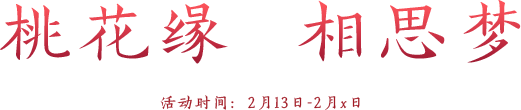
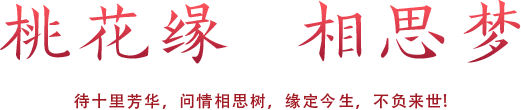
add
add

Changed region(s): [[0.1228, 0.8455, 0.8599, 1.0]]

diff --git a/evt202002/index.html b/evt202002/index.html
@@ -4,7 +4,9 @@
     <meta charset="UTF-8">
     <meta name="viewport" content="width=device-width, initial-scale=1.0">
     <meta http-equiv="X-UA-Compatible" content="ie=edge">
-    <title>情人节</title>
+    <title>【桃之夭夭，灼灼其华、2020情人节专属换装】-《梦三国2》官方网站</title>
+    <meta name="Keywords" content="梦三国,梦三国2,梦三国官网,梦三国下载,梦三国游戏下载,msg,梦三国新手,梦三国礼包,梦三国攻略,梦平台" />
+    <meta name="Description" content="桃之夭夭，灼灼其华、2020情人节专属换装！" />
     <script>
         (function (window) {
             var lessThenIE9 = function () {
@@ -63,7 +65,7 @@
                             <div class="evt-item">
                                 <div class="title-index i-1"></div>
                                 <div class="evt-text text-1 clearfix">
-                                    <p>关注口袋梦三国，梦三国OL微信</p>
+                                    <p style="padding-right: 10px;">关注口袋梦三国，梦三国OL微信</p>
                                     <p>公众号情人节有奖活动，有机会</p>
                                     <p>获得甜蜜豪礼</p>
                                 </div>
@@ -79,9 +81,10 @@
                             <div class="evt-item">
                                 <div class="title-index i-2"></div>
                                 <div class="evt-text text-2 clearfix">
-                                    <p>2月13日-2月14日，限时2天购买【相思</p>
-                                    <p>梦甜蜜升级包】，额外获得鼠年情人节</p>
-                                    <p>头像和【生生世世】大呲花。</p>
+                                    <p style="padding-right: 6px;">
+                                        2月11日-2月6日，限时6天购买相思</p>
+                                    <p>梦情缘升级包，可额外获得鼠年情人节</p>
+                                    <p>头像和生生世世大呲花。</p>
                                 </div>
                                 <div class="reward-list">
                                     <div class="reward-item">
@@ -99,7 +102,7 @@
                                 <div class="title-index i-3"></div>
                                 <div class="evt-text text-3 clearfix">
                                     <p><b>商城 限时折扣</b></p>
-                                    <p>2月13日-2月14日</p>
+                                    <p>2月11日-2月16日</p>
                                 </div>
                                 <div class="reward-list" style="margin-top: 80px;">
                                     <div class="reward-item">

diff --git a/evt202002/m/index.html b/evt202002/m/index.html
@@ -12,10 +12,9 @@
     <meta content="telephone=no,email=no" name="format-detection">
     <meta name="viewport" content="width=device-width, initial-scale=1.0">
     <meta http-equiv="X-UA-Compatible" content="IE=Edge,chrome=1">
-    <title>梦幻独角兽 梦辛宪英换装-《梦三国2》官方网站</title>
-    <meta name="Keywords"
-        content="梦三国,梦三国2,梦三国官网,梦三国下载,梦三国九周年庆,梦三国2九周年庆,周年庆,梦幻独角兽换装,梦辛宪英,新换装,梦三国游戏下载,msg,梦三国新手,梦三国礼包,梦三国攻略,梦平台" />
-    <meta name="Description" content="《梦三国2》梦幻独角兽换装，今日份的可爱已送达~" />
+    <title>【桃之夭夭，灼灼其华、2020情人节专属换装】-《梦三国2》官方网站</title>
+    <meta name="Keywords" content="梦三国,梦三国2,梦三国官网,梦三国下载,梦三国游戏下载,msg,梦三国新手,梦三国礼包,梦三国攻略,梦平台" />
+    <meta name="Description" content="桃之夭夭，灼灼其华、2020情人节专属换装！" />
 
     <script>
         if (!/Android|webOS|iPhone|iPod|BlackBerry/i.test(navigator.userAgent)) {
@@ -203,7 +202,7 @@
         }(document, "body", "script", "iframe"));
 
 
-        wxshare.init("2019梦辛宪英全新换装，这么好看一定是女孩子！", "《梦三国2》梦幻独角兽换装，今日份的可爱已送达~",
+        wxshare.init("《梦三国2》 桃之夭夭，灼灼其华、2020情人节专属换装！", "桃之夭夭，灼灼其华、2020情人节专属！",
             'https://www.m3guo.com/activity/201909/skin/',
             "https://www.m3guo.com/activity/201909/skin/images/sns.jpg", "wxd01d99b49ecdc4f0",
             "http://m3guowechat.dataitf.17m3.com/wechat/get_dianhun_ticket/");

diff --git a/evt202002/css/common.pc.css b/evt202002/css/common.pc.css
@@ -124,8 +124,8 @@ body {
     left: 50%;
     top: 50%;
     width: 1000px;
-    min-height: 910px;
-    max-height: 100%;
+    /* min-height: 910px;
+    max-height: 100%; */
     transform: translate(-50%, -50%);
 }
 
